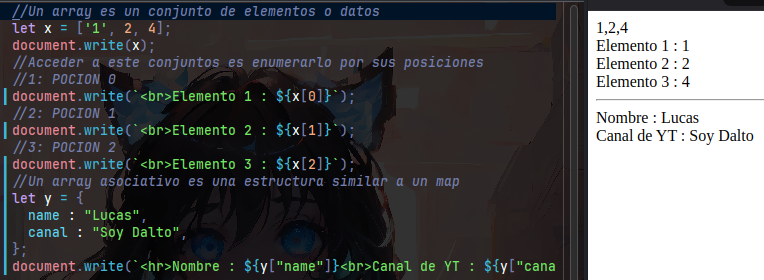
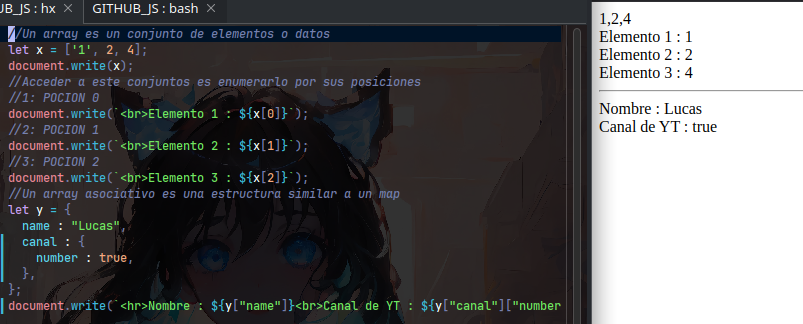
Update Array Section

diff --git a/array/index.js b/array/index.js
@@ -11,6 +11,8 @@ document.write(`<br>Elemento 3 : ${x[2]}`);
 //Un array asociativo es una estructura similar a un map
 let y = {
   name : "Lucas",
-  canal : "Soy Dalto",
+  canal : {
+    number : true,
+  },
 };
-document.write(`<hr>Nombre : ${y["name"]}<br>Canal de YT : ${y["canal"]}`);
+document.write(`<hr>Nombre : ${y["name"]}<br>Canal de YT : ${y["canal"]["number"]}`);
